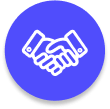
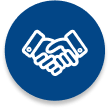
add new section empleados

diff --git a/src/index.css b/src/index.css
@@ -1,8 +1,10 @@
 :root {
   --gray-main: #A6A6A6;
-  --blue-main: #3E84FF;
+  --blue-main:  #024687;
   --black-main: #0F0000;
   --white-main: #FFFFFF;
+  --light-blue-main: #3E69FF;
+
 }
 
 * {
@@ -108,7 +110,7 @@ header ul {
   display: flex;
   flex-wrap: wrap;
   justify-content: space-evenly;
-  height: 80rem; 
+  height: 65rem;
 }
 
 #landing .descrip {
@@ -157,6 +159,8 @@ header ul {
   z-index: 0;
   border-radius: 35px;
   margin-left: 130px;
+  box-shadow: 0px 4px 4px 0px #00000040;
+  filter: drop-shadow(5px 7px 10px #3EC4FE);
 }
 
 #values .rectangle {
@@ -193,6 +197,7 @@ header ul {
   font-weight: 700;
   font-size: 40px;
   line-height: 47px;
+  color: var(--blue-main);
 }
 
 #values .box p {
@@ -222,6 +227,7 @@ header ul {
   display: block;
   margin-left: auto;
   margin-right: auto;
+  filter: drop-shadow(0px 4px 4px rgba(0, 0, 0, 0.25));
 }
 
 #values .icon h4 {
@@ -230,7 +236,79 @@ header ul {
 }
 /* values end */
 
+/* Testimonioss start */
 
+#testimonioss {
+  position: relative;
+  height: 60rem;
+  margin-top: 90px;
+  background: radial-gradient(86.77% 115.05% at -3.89% 4.67%, #3ED9FE 28.13%, #024687 81.25%);
+  /* background-image: url("./assets/imgs/rectangle-blue.png"); */
+}
+
+#testimonioss h1 {
+  color: var(--white-main);
+  font-size: 4rem;
+  padding: 60px 40px;
+}
+
+#testimonioss .max .grupo_testimonios {
+  display: flex;
+  flex-direction: row;
+  margin-left: 50px;
+}
+
+#testimonioss .max .card_testimonio {
+  display: flex;
+  flex-direction: column;
+  width: 312px;
+  /* height: 500px; */
+  height: 420px;
+  border-radius: 70px;
+  margin: 0 40px;
+}
+
+#testimonioss .max .card_testimonio .content_testimonio {
+  position: relative;
+  background-color: #FFFFFF;
+  flex-direction: column;
+  margin-top: auto;
+  border-radius: 0 0 70px 70px;
+  height: 55%;
+  padding: 30px;
+} 
+
+#testimonioss .max .card_testimonio .content_testimonio h2 {
+  color: var(--blue-main);
+  font-size: 1.8rem;
+} 
+
+#testimonioss .max .card_testimonio .content_testimonio .text_one {
+  color: var(--black-main);
+  font-size: 1rem;
+  padding: 10px 0;
+  text-indent: 1.5em;
+}
+
+#testimonioss .max .card_testimonio .content_testimonio .text_two {
+  color: var(--light-blue-main);
+  font-weight: 800; 
+  font-size: 1rem;
+} 
+
+
+
+/* #testimonioss .max .grupo_testimonios .card_testimonio img {
+  border-radius: 70px;
+} */
+
+
+
+
+
+/* Testimonioss end */
+
+/* Empty star */
 #empty .max {
   position: relative;
   display: flex;
@@ -270,7 +348,9 @@ header ul {
   line-height: 16px;
   text-align: justify;
 }
+/* Empty star */
 
+/* Contacto star */
 #contacto h2 {
   font-size: 2.5rem;
   text-align: center;
@@ -327,7 +407,9 @@ header ul {
   display: block;
   font-weight: bold;
 }
+/* Contacto end */
 
+/* Servicios star */
 #servicios { 
   position: relative;
 }
@@ -382,7 +464,9 @@ header ul {
   text-align: left;
   
 }
+/* Servicio end */
 
+/* Testimonios star */
 .testimonials {
   position: relative;
   overflow-x: hidden;
@@ -444,7 +528,9 @@ header ul {
 .circle._slider:last-child {
   margin: 0;
 }
+/* Testimonios end */
 
+/* Footer star */
 footer {
   position: relative;
   display: flex;
@@ -496,6 +582,8 @@ footer .utilities a {
   font-weight: 400;
   color: var(--white-main);
 }
+/* Footer end */
+
 
 @media (max-width: 774px) {
   header i{
@@ -567,12 +655,7 @@ footer .utilities a {
 @media (max-width: 947px ) {
   #landing .descrip {
       width: 100%;
-      height: 100%;
       color: var(--white-main);
-  }
-
-  .img-landing {
-      margin-bottom: 300px;
   }
 }
 

diff --git a/src/screens/Testimonioss.jsx b/src/screens/Testimonioss.jsx
@@ -1,0 +1,46 @@
+import MariaImg from '../assets/imgs/avatars/avatar-maria.png';
+import JorgeImg from '../assets/imgs/avatars/avatar_jorge.png'
+import AngieImg from '../assets/imgs/avatars/avatar_angie.png';
+// import RobertoImg from '../assets/imgs/avatars/avatar_roberto.png';
+
+export const Testimonioss = () => {
+    return (
+        <div id='container-one'>
+            <section id='testimonioss'>
+                <h1>Quienes Confían En Nosotros?</h1>
+                <div className='max'>
+                    <div className='grupo_testimonios'>
+                        <div className='card_testimonio' style={{ backgroundImage: `url(${MariaImg})` }}>
+                            <div className='content_testimonio'>
+                                <h2>Maria Cobos</h2>
+                                <p className='text_one'>Sed ut perspiciatis unde omnis iste natus error sit voluptatem ccusantium doloremque laudantium, totam rem aperiam, eaque ipsa quae ab.</p>
+                                <p className='text_two'>"totam rem aperiam, eaque ips."</p>
+                            </div>
+                        </div>
+                        <div className='card_testimonio' style={{ backgroundImage: `url(${JorgeImg})` }}>
+                            <div className='content_testimonio'>
+                                <h2>Maria Cobos</h2>
+                                <p className='text_one'>Sed ut perspiciatis unde omnis iste natus error sit voluptatem ccusantium doloremque laudantium, totam rem aperiam, eaque ipsa quae ab.</p>
+                                <p className='text_two'>"totam rem aperiam, eaque ips."</p>
+                            </div>
+                        </div>
+                        <div className='card_testimonio' style={{ backgroundImage: `url(${AngieImg})` }}>
+                            <div className='content_testimonio'>
+                                <h2>Maria Cobos</h2>
+                                <p className='text_one'>Sed ut perspiciatis unde omnis iste natus error sit voluptatem ccusantium doloremque laudantium, totam rem aperiam, eaque ipsa quae ab.</p>
+                                <p className='text_two'>"totam rem aperiam, eaque ips."</p>
+                            </div>
+                        </div>
+                        {/* <div className='card_testimonio' style={{ backgroundImage: `url(${RobertoImg})` }}>
+                            <div className='content_testimonio'>
+                                <h2>Maria Cobos</h2>
+                                <p className='text_one'>Sed ut perspiciatis unde omnis iste natus error sit voluptatem ccusantium doloremque laudantium, totam rem aperiam, eaque ipsa quae ab.</p>
+                                <p className='text_two'>"totam rem aperiam, eaque ips."</p>
+                            </div>
+                        </div> */}
+                    </div>
+                </div>
+            </section>
+        </div>
+    )
+}

diff --git a/src/components/NavBar.jsx b/src/components/NavBar.jsx
@@ -1,6 +1,6 @@
 import React, { useState } from 'react'
 
-export const NavBar = ({ nosotrosRef, valoresRef, serviciosRef, contactoRef }) => {
+export const NavBar = ({ nosotrosRef, serviciosRef, contactoRef }) => {
 
     const [sideBarOpen, setSideBarOpen] = useState(false)
 
@@ -12,12 +12,13 @@ export const NavBar = ({ nosotrosRef, valoresRef, serviciosRef, contactoRef }) =
         <header>
             <div className="max">
                 <div className="logo">
-                    <h2>Logo</h2>
+                    <h2>Visivia</h2>
                 </div>
                 <nav>
                     <a><h3 onClick={() => nosotrosRef.current?.scrollIntoView({ behavior: "smooth" })}>Nosotros</h3></a>
                     <a><h3 onClick={() => serviciosRef.current?.scrollIntoView({ behavior: "smooth" })}>Servicios</h3></a>
-                    <a><h3 onClick={() => valoresRef.current?.scrollIntoView({ behavior: "smooth" })}>Valores</h3></a>
+                    <a><h3 /* onClick={() => clientesRef.current?.scrollIntoView({ behavior: "smooth" })} */>Clientes</h3></a>
+                    <a><h3 /* onClick={() => noticiasRef.current?.scrollIntoView({ behavior: "smooth" })} */>Noticias</h3></a>
                     <a><h3 onClick={() => contactoRef.current?.scrollIntoView({ behavior: "smooth" })}>Contacto</h3></a>
                     <input type="checkbox" id="check" />
                     <label htmlFor="check">
@@ -27,7 +28,8 @@ export const NavBar = ({ nosotrosRef, valoresRef, serviciosRef, contactoRef }) =
                 <ul className={`menuNav ${sideBarOpen ? " showMenu" : ""}`}>
                     <li><a><h3 onClick={() => nosotrosRef.current?.scrollIntoView({ behavior: "smooth" })}>Nosotros</h3></a></li>
                     <li><a><h3 onClick={() => serviciosRef.current?.scrollIntoView({ behavior: "smooth" })}>Servicios</h3></a></li>
-                    <li><a><h3 onClick={() => valoresRef.current?.scrollIntoView({ behavior: "smooth" })}>Valores</h3></a></li>
+                    <li><a><h3 /* onClick={() => serviciosRef.current?.scrollIntoView({ behavior: "smooth" })} */>Clientes</h3></a></li>
+                    <li><a><h3 /* onClick={() => serviciosRef.current?.scrollIntoView({ behavior: "smooth" })} */>Noticias</h3></a></li>
                     <li><a><h3 onClick={() => contactoRef.current?.scrollIntoView({ behavior: "smooth" })}>Contacto</h3></a></li>
                 </ul>
             </div>

diff --git a/src/screens/Testimonios.jsx b/src/screens/Testimonios.jsx
@@ -15,13 +15,13 @@ export const Testimonios = () => {
         
                     <div className="group _testimonials -text ">
                         <div className="card _testimonials">
-                        <img src={AvatarOne} alt="portrait Anisha" className="img _testimonials" />
-                        <h3 className="title _testimonials -card">
-                            Ella Balinska
-                        </h3>
-                        <p className="copy _testimonials -card">
-                            “Lorem ipsum, dolor sit amet consectetur adipisicing elit. Quisquam id facere suscipit quae dicta recusandae voluptas minima cumque, pariatur animi velit omnis quasi quas enim asperiores hic, sunt nisi consequatur!”
-                        </p>
+                            <img src={AvatarOne} alt="portrait Anisha" className="img _testimonials" />
+                            <h3 className="title _testimonials -card">
+                                Ella Balinska
+                            </h3>
+                            <p className="copy _testimonials -card">
+                                “Lorem ipsum, dolor sit amet consectetur adipisicing elit. Quisquam id facere suscipit quae dicta recusandae voluptas minima cumque, pariatur animi velit omnis quasi quas enim asperiores hic, sunt nisi consequatur!”
+                            </p>
                         </div>
                         <div className="card _testimonials">
                         <img src={AvatarTwo} alt="portrait Ali" className="img _testimonials" />

diff --git a/src/data/testimonios.js b/src/data/testimonios.js
@@ -1,0 +1,26 @@
+export const testimonios = [
+    {
+        name: "Maria Cobos",
+        paragraph: "Sed ut perspiciatis unde omnis iste natus error sit voluptatem ccusantium doloremque laudantium, totam rem aperiam, eaque ipsa quae ab.",
+        text: "“totam rem aperiam, eaque ipsa.”",
+        url: "../assets/imgs/avatars/avatar-maria.png"
+    },
+    {
+        name: "Jorge Villalobos",
+        paragraph: "Sed ut perspiciatis unde omnis iste natus error sit voluptatem ccusantium doloremque laudantium, totam rem aperiam, eaque ipsa quae ab.",
+        text: " “totam rem aperiam, eaque ipsa.”",
+        url: "../assets/imgs/avatars/avatar_jorge.png"
+    },
+    {
+        name: "Angie Verona",
+        paragraph: "Sed ut perspiciatis unde omnis iste natus error sit voluptatem ccusantium doloremque laudantium, totam rem aperiam, eaque ipsa quae ab.",
+        text: " “totam rem aperiam, eaque ipsa.”",
+        url: "../assets/imgs/avatars/avatar_angie.png"
+    },
+    {
+        name: "Roberto Giordano",
+        paragraph: "Sed ut perspiciatis unde omnis iste natus error sit voluptatem ccusantium doloremque laudantium, totam rem aperiam, eaque ipsa quae ab.",
+        text: " “totam rem aperiam, eaque ipsa.”",
+        url: "../assets/imgs/avatars/avatar_roberto.png"
+    }
+];

diff --git a/src/App.js b/src/App.js
@@ -1,6 +1,6 @@
 import React, { useRef } from 'react'
 import { AppLayout } from './layout/AppLayout';
-import { Nosotros, Valores, Bloque, Testimonios, Servicios, Contacto } from './screens';
+import { Nosotros, Valores, Testimonioss, Bloque, Testimonios, Servicios, Contacto } from './screens';
 
 const App = () => {
   // Scroll
@@ -18,6 +18,7 @@ const App = () => {
       >
         <Nosotros ref={nosotrosRef} />
         <Valores ref={valoresRef} />
+        <Testimonioss />
         <Bloque />
         <Testimonios />
         <Servicios  ref={serviciosRef}/>

diff --git a/src/screens/Nosotros.jsx b/src/screens/Nosotros.jsx
@@ -5,10 +5,6 @@ import BgBlueImg from '../assets/imgs/bg-blue.png'
 export const Nosotros = forwardRef((props, ref) => {
     return (
         <>
-            {/* <div ref={ref} id="container">
-                <div className="img-landing"></div>
-            </div> */}
-
             <div id="container">
                 <section id="landing">
                     <img src={BgBlueImg} alt="bg-blue" className='img-landing' />

diff --git a/src/components/Testimonio.jsx b/src/components/Testimonio.jsx
@@ -1,0 +1,12 @@
+
+export const Testimonio = ({ name, paragraph, text }) => {
+    return (
+        <div className='card_testimonio'>
+            <div className='content_testimonio'>
+                <h2>{ name}</h2>
+                <p className='text_one'>{ paragraph }</p>
+                <p className='text_two'>{ text }</p>
+            </div>
+        </div>
+    )
+}

diff --git a/src/screens/index.js b/src/screens/index.js
@@ -1,5 +1,6 @@
 export * from './Nosotros';
 export * from './Valores';
+export * from './Testimonioss';
 export * from './Bloque';
 export * from './Testimonios';
 export * from './Servicios';
